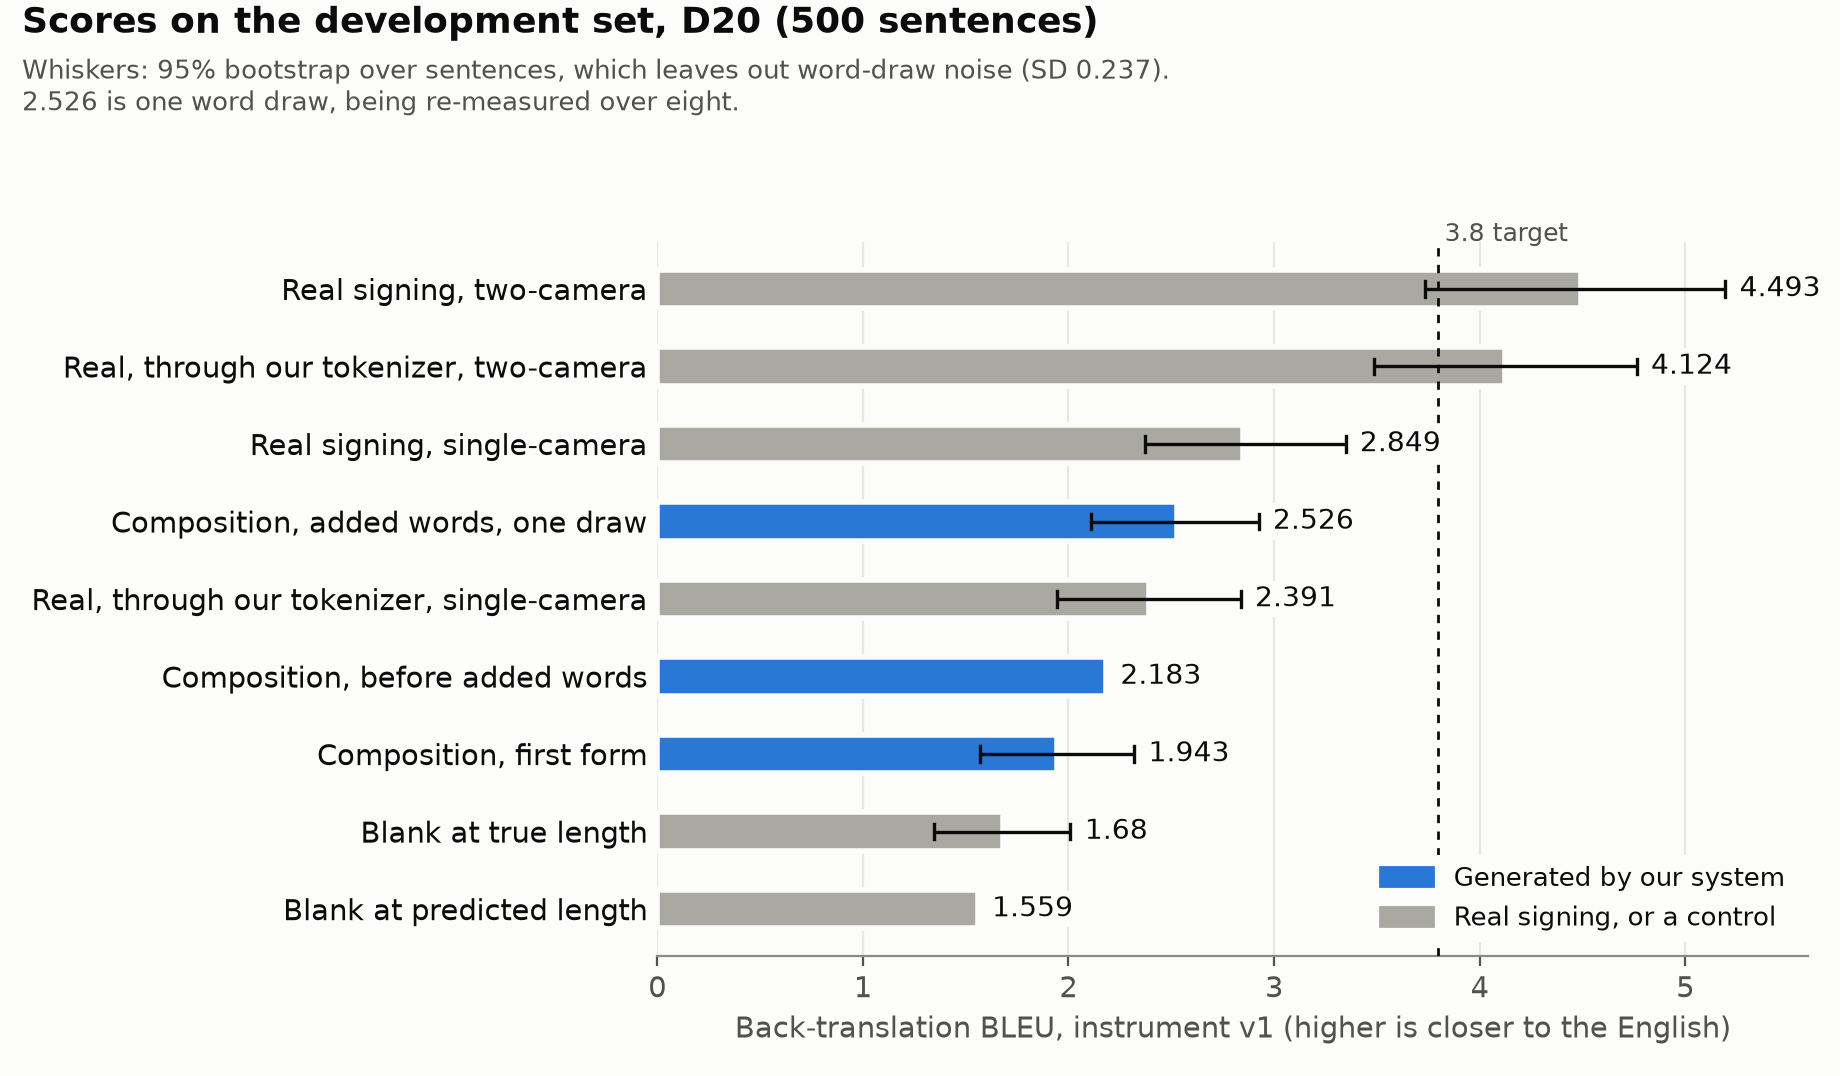
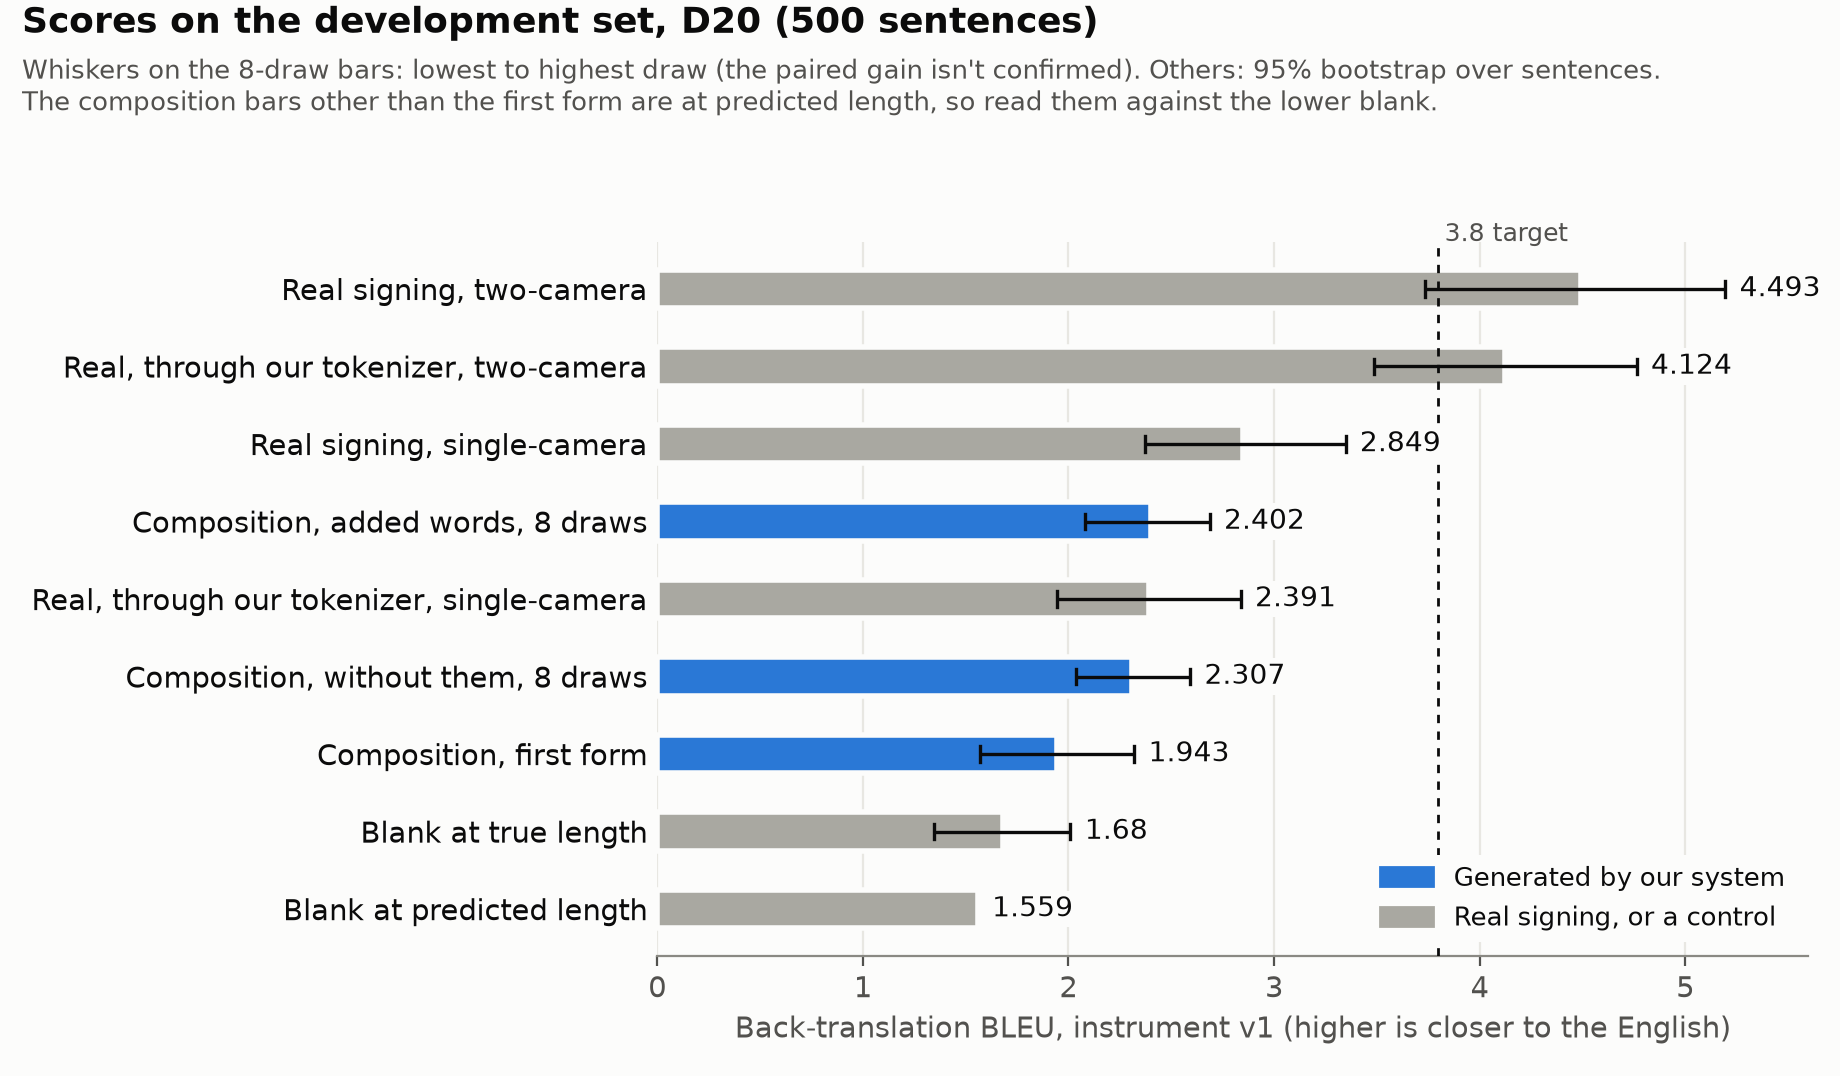
A5 result: added words not confirmed over eight draws (BLEU +0.095 [-0.078, +0.269], likelihood -0.0022, spotting +0.0131 in 8 of 8); A6 does not run. README and figure updated

diff --git a/README.md b/README.md
@@ -38,10 +38,10 @@ This README is a procedural account of the project: what was built, how it was t
 |---|---|---|---|---|---|
 | **Fresh sentences, one read, C20** | Gains, best of 16, true length | **2.400** [2.06, 2.737] | 4.033 | 2.053 | 17.5% |
 | Pilot sentences, the 1,000 | Gains, best of 16, true length | 2.570 [2.236, 2.892] | 4.136 | 1.859 | 31.2% |
-| Development set, D20, one word draw | No gains, added words, predicted length | 2.526 [2.111, 2.925] | 4.493 | 1.559 at predicted length (1.68 at true length) | 33.0% |
+| Development set, D20, mean of eight word draws | No gains, added words, predicted length | 2.402 (draws 2.08 to 2.687) | 4.493 | 1.559 at predicted length (1.68 at true length) | 32.5% |
 | Best end-to-end generator, the 1,000 | W14b, no gains | 2.000 [1.66, 2.319] | 4.136 | 1.859 | 6.2%, not resolved above blank |
 
-Each read uses the blank at its own length; 2.526 against the true-length blank would be 30.1%. True-length forms need the answer's length, so they can't be deployed. C20's form at predicted length read 1.985 [1.615, 2.359] on D20. "Gains" are fixed decoder multipliers (body 1.17, hands 1.28, 1.27).
+Each read uses the blank at its own length. True-length forms need the answer's length, so they can't be deployed. C20's form at predicted length read 1.985 [1.615, 2.359] on D20. "Gains" are fixed decoder multipliers (body 1.17, hands 1.28, 1.27).
 
 | Target | Value | State |
 |---|---|---|
@@ -49,7 +49,7 @@ Each read uses the blank at its own length; 2.526 against the true-length blank 
 | Long-term instrument target | 3.8 | Not reached by any form |
 | Release bar with Deaf raters | Comprehension lower bound at least 70%, within 10 points of real | Not started |
 
-**The newest result, which may change the plan.** Most of our word clips were learned from single-camera data, while the real signing we compare against was recovered from two cameras. Read through the single-camera path, that same real signing scores **2.85, not 4.49**. Composition's 2.53, one draw chosen on D20, is already close to that (the declared comparison without tracking marks is 2.65 against 4.62). Either single-camera recovery loses real detail, or our instrument underrates it; we have not yet separated the two ([section 7.3](#73-the-single-camera-result)).
+**The newest result, which may change the plan.** Most of our word clips were learned from single-camera data, while the real signing we compare against was recovered from two cameras. Read through the single-camera path, that same real signing scores **2.85, not 4.49**. Composition's 2.40, the mean of eight draws of a form chosen on D20, is already close to that (the declared comparison without tracking marks is 2.65 against 4.62). Either single-camera recovery loses real detail, or our instrument underrates it; we have not yet separated the two ([section 7.3](#73-the-single-camera-result)).
 
 ---
 
@@ -157,7 +157,7 @@ A causal temporal transformer (6 layers) runs over frames, with cross-attention 
 4. Predict the sentence's length from text alone: `seconds = −0.083 + 0.369 × tokens`.
 5. Place the word cores and crossfade them over 4 frames.
 
-Variants tested on D20 include added common words, left-arm holds, tempo changes and low-pass filtering; [section 7](#7-results) lists the main ones. A fitted-length test is built and not yet declared.
+Variants tested on D20 include added common words, left-arm holds, tempo changes and low-pass filtering; [section 7](#7-results) lists the main ones. A fitted-length test was built, but its declared gate needed A5 to pass, so it hasn't run.
 
 ### 4.5 Instruments
 
@@ -254,7 +254,7 @@ About half of the 2.306 to 2.570 gain came from fewer loops rather than more con
 
 ### 7.2 Development set D20
 
-![Bar chart on D20: real two-camera 4.493, tokenizer round trip 4.124, real single-camera 2.849, composition with added words 2.526, single-camera round trip 2.391, composition 2.183 and 1.943, blank 1.68](docs/figures/demo/results_d20.png)
+![Bar chart on D20: real two-camera 4.493, tokenizer round trip 4.124, real single-camera 2.849, composition with added words 2.402, single-camera round trip 2.391, composition before added words 2.307, first form 1.943, blanks 1.68 and 1.559](docs/figures/demo/results_d20.png)
 
 | Test on D20 | BLEU | Likelihood above blank | Wrist vs real | Outcome |
 |---|---|---|---|---|
@@ -262,12 +262,13 @@ About half of the 2.306 to 2.570 gain came from fewer loops rather than more con
 | Best of 16 samples | 2.328, +0.385 [+0.014, +0.791] | | 2.57× | **Adopted** |
 | At predicted timing, no gains | 2.183 | +0.0764 | 1.53× | Comparator |
 | Left-arm hold | 2.265 | +0.0487 | 1.29× | **Failed**, loses likelihood and spotting |
-| **Added common words** | **2.526** [2.111, 2.925] | +0.0891 | 1.77× | Passed its rule, **one draw, report only** |
+| Added common words, first draw | 2.526 [2.111, 2.925] | +0.0891 | 1.77× | Passed its rule, one draw, report only |
+| **Added common words, eight fresh draws** | **Mean 2.402, against 2.307 without.** Paired +0.095 [−0.078, +0.269] | Paired −0.0022 [−0.0227, +0.0182] | 1.81× | **Not confirmed. Not adopted** |
 | Same, at the true length | 2.855 [2.371, 3.283] | | | Not deployable: needs the answer's length |
 
-**Limits on added words:** the paired gain is +0.343 [−0.018, +0.718] on BLEU and +0.0128 [+0.0015, +0.0235] on likelihood. Wrist speed rose, loop share is 54.0%, and echo of the new words did not rise, so part of the gain may be speed rather than coverage. D20 chose this arm, the read ran under a disclosed GPU exemption after its number had been seen, and pointing and fingerspelled entries need Deaf review. Stitched real word clips read no higher (2.17 against 2.306 on the 1,000; 2.176 against 2.526 for added words on D20), which better words alone won't fix and which may say something about the instrument.
+**Added words did not hold up.** Eight fresh draws, read once under a rule declared in advance, did not confirm the first draw's +0.343 [−0.018, +0.718] on BLEU and +0.0128 [+0.0015, +0.0235] on likelihood: the first draw was a high one. BLEU rose in 6 of 8 draws and likelihood in 5 of 8. Word spotting did rise in all 8, +0.0131 [+0.0073, +0.0188], so the added words are detectably there, but a sentence-level gain isn't shown. This isn't evidence against the form either: the test had limited power, with a paired draw SD of 0.2075. On the first draw, wrist speed rose, loop share was 54.0%, and echo of the new words did not rise, so part of the gain may be speed rather than coverage. D20 chose this arm, the read ran under a disclosed GPU exemption after its number had been seen, and pointing and fingerspelled entries need Deaf review. Stitched real word clips read no higher (2.17 against 2.306 on the 1,000; 2.176 against 2.526 for added words on D20), which better words alone won't fix and which may say something about the instrument.
 
-**Word draws matter.** Five real-clip draws moved D20 between 1.821 and 2.414 (SD 0.237). Our intervals leave that out, so every single-draw result, including the fresh read, looks surer than it is. A test called A5 (plan section "A5, eight word draws, declared"; earlier A5s in the plan are other tests) repeats the added-words test over eight fresh draws. A pass would still not be a fresh-sentence result.
+**Word draws matter.** Five real-clip draws moved D20 between 1.821 and 2.414 (SD 0.237). Our intervals leave that out, so every single-draw result, including the fresh read, looks surer than it is. The eight-draw test above is called A5 in the plan (section "A5, eight word draws, declared"; earlier A5s in the plan are other tests). Its result is what a single draw can't show. Even a pass would not have been a fresh-sentence result.
 
 **Tokenizer.** We suspected the tokenizer capped scores, and on two-camera input that doesn't hold as stated. Without neutral fill on untracked frames, a real-signing round trip reads 4.124 [3.485, 4.764], or 86.9% of the BLEU gap and 64.5% of the likelihood gap, on one D20 read. We kept d2 and skipped a retrain. The single-camera round trip reads 2.391, with its upper bound below 3.8. A control also showed real's tracking marks carry some sentence content no generator can emit, about 7% of its likelihood gap, so shares against 4.493 are somewhat understated.
 
@@ -289,11 +290,11 @@ Same 500 clips, instrument v1, all safety checks clean, control exact:
 - **The drop is in the motion values:** swapping tracking marks barely moves either path, and trimming clips to the same frames changes nothing.
 - **Hands differ most:** distance between paths is 0.587 for hands (a deliberately mirrored control reads 1.286), 0.231 for wrists, 0.128 for elbows and 0.100 for shoulders.
 - **What it can't tell us:** whether detail is really lost, or whether v1 underrates this path because it was fine-tuned on two-camera motion. We wrote that limit down before the read.
-- **Why it matters:** if it's real, composition may have little room left on this instrument. By arithmetic on one draw, its 33% share is about 100% (roughly 70-165%) of the single-camera gap. That is an inference, not a measurement. Composition's clips aren't simply single-camera, since d2's decoder and How2Sign's weighting differ, and its likelihood +0.089 sits above real single-camera's +0.056.
+- **Why it matters:** if it's real, composition may have little room left on this instrument. By arithmetic on the eight-draw mean, its 32.5% share is about 100% (roughly 70-165%) of the single-camera gap. That is an inference, not a measurement. Composition's clips aren't simply single-camera, since d2's decoder and How2Sign's weighting differ, and its likelihood +0.089 sits above real single-camera's +0.056.
 
 ### 7.4 Motion quality
 
-Composed wrists run too fast. Length fitting squeezes word cores 1.96×, and joining adds movement. Against D20's signers, the best form is 1.77× real (left 2.23×, right 1.46×), and through the same single-camera path both arms read about 1.9×.
+Composed wrists run too fast. Length fitting squeezes word cores 1.96×, and joining adds movement. Against D20's signers, the added-words form is 1.77× real on its first draw (left 2.23×, right 1.46×), 1.81× over eight draws, and through the same single-camera path both arms read about 1.9×.
 
 We then compared against 75 groups: 9 named signers and 66 YouTube channels (120 of 355 qualifying channels read). The form sits inside their 10th-90th percentile range on 5 of 6 readings, at the 85th-89th percentile and faster than 7-8 of the 9 named signers. This rerun is unreviewed and no rule reads it, and D20's own signers mostly fail that range, so it is not a pass. **Timing and speed also pull against each other:** truer timing scores higher but moves wrists further out of range.
 
@@ -329,7 +330,7 @@ Dates are 2026, UTC. Numbers are BLEU unless stated. "Lexicon" is the share of g
 | Nov 1 | Masked decoding, the last end-to-end route | Gauge read 8.25 on truth 4.13 | Closed untrained, "not shown"; reopens only on a declared direct read |
 | Nov 1 | Back-translator v2 | Real 1.871, gap +0.019 | **Not accepted** |
 | Nov 1 | **Single-camera read** | **2.849 vs 4.493** | Possible root cause, unresolved |
-| Nov 1 | A5, eight word draws | All 8 finished, none failed; summary running | Pending |
+| Nov 1 | **A5, added words over eight draws** | **+0.095 [−0.078, +0.269]; likelihood −0.0022** | **Not confirmed**, not adopted; follow-up A6 not run |
 
 ---
 
@@ -391,8 +392,7 @@ Some changes loosened a rule after we saw numbers. Each is disclosed in the plan
 
 **Open questions:**
 
-1. Does added-words hold up over eight draws? (A5, due today.)
-2. Does single-camera recovery lose real detail, or is the instrument biased? And is it hands or body? (The next read is built and under review. Neither instrument is independent, so a clear answer may need human readers.)
+1. Does single-camera recovery lose real detail, or is the instrument biased? And is it hands or body? (The next read is built and under review. Neither instrument is independent, so a clear answer may need human readers.)
 3. Do arm-less YouTube clips hurt the generator? (Unmeasured. The one direct test showed no gain, but it was short.)
 4. Would Deaf readers understand any of this? (Unknown, and the most important question.)
 5. Which wrist range is right, given that real signers fail the current one?
@@ -403,7 +403,6 @@ Some changes loosened a rule after we saw numbers. Each is disclosed in the plan
 |---|---|
 | Single-camera detail is really lost | Better hand and arm data, or better recovery, comes before more composition tuning |
 | The instrument is biased | Build a fairer instrument. Scores so far may understate composition |
-| Added words hold | Test fitted length next (A6, prepared and reviewed, not yet declared) |
 | Any of these reaches a credible level | First Deaf rater read, at least nine raters. That read is diagnostic: it fails the wrist and timing conditions by construction |
 
 **Our own odds, as judgement rather than measurement, all before the single-camera read:** on Oct 31, under 5% each for deployable or 3.8 by Nov 15; on Nov 1, an AI agent's estimate of 5-10% for 3.8 within three months and under 5% for the release bar.

diff --git a/docs/NEXT_PHASE_PLAN.md b/docs/NEXT_PHASE_PLAN.md
@@ -6200,3 +6200,17 @@ Branch `path-read` 52fd48d1 (digest 5a48d7da), independent review applied, not m
 **What this shows and doesn't.** v1 reads this path lower. Lost content and v1's fit to two-view keypoints aren't separated, as declared. It makes no claim about composition. Arithmetic only, on the declared division: top10's stored share of 33.0% reads about 100% against the marks-free monocular gap, with an interval from about 70% to 165%, on a single draw, with A5 still running. Composition's clips aren't simply monocular (d2's decoder and How2Sign's weighting differ), so that is an inference, and top10's +0.089 likelihood sits above real monocular's +0.056 and the round trip's +0.024.
 
 **If it holds, it changes the road to 3.8.** Word clips trained almost entirely on monocular data may already read about as high on v1 as real signing through that path, so composition tuning may have little room left on this instrument. Either the data needs better arms and hands, or v1 underrates this path and we have no instrument to say so (v2 was not accepted). **Next, report only: which part loses it (body against hands), and whether an instrument not fitted to two-view reads the same gap.**
+
+### A5 result: added words not confirmed over eight draws (read 2026-11-01, recorded 21:03 UTC)
+
+`round20/comp-a5/a5-summary.json` sha 4f3d1f38, declared 84fb608bd5, eight draws, attempt 1 each, none failed. **Outcome: not_confirmed.** Top10 minus margin0, D20, predicted timing:
+
+| | Mean | t 95% | Two-way 95% | Positive | Between-draw SD |
+|---|---|---|---|---|---|
+| BLEU | +0.0953 | [−0.0781, +0.2688] | [−0.1054, +0.3117] | 6 of 8 | 0.2075 |
+| Likelihood − blank | −0.0022 | [−0.0227, +0.0182] | [−0.0226, +0.0156] | 5 of 8 | 0.0245 |
+| Spotting | +0.0131 | [+0.0073, +0.0188] | [+0.0064, +0.0206] | 8 of 8 | 0.0069 |
+
+Means: top10 2.402 (draws 2.08 to 2.687), margin0 2.307 (2.038 to 2.592); gap share 32.5% against 25.7%. Wrist 1.813× against 1.543×; hands 1.203 against 1.191. True length, deciding nothing: 2.780 against 2.623, +0.156 [−0.0526, +0.3646], likelihood +0.004. Passed: spotting, wrist no further than a9, hands. Failed: BLEU's lower bound and floor, both likelihood bounds, both 7-of-8 counts.
+
+**Reading.** Added words are detectably there, but a sentence-level gain isn't shown, and the stored 2.526 was a high draw. As declared, this isn't evidence against the form: nothing is adopted, and the paired draw SD of 0.2075 gives limited power. **A6's gate refuses unless A5 reads confirmed or direction only, so A6 does not run.** Its bars would have rested on no established gain. Fitted length stays a question for later. Next: the parts read, since the single-camera result now matters more than composition tuning.
